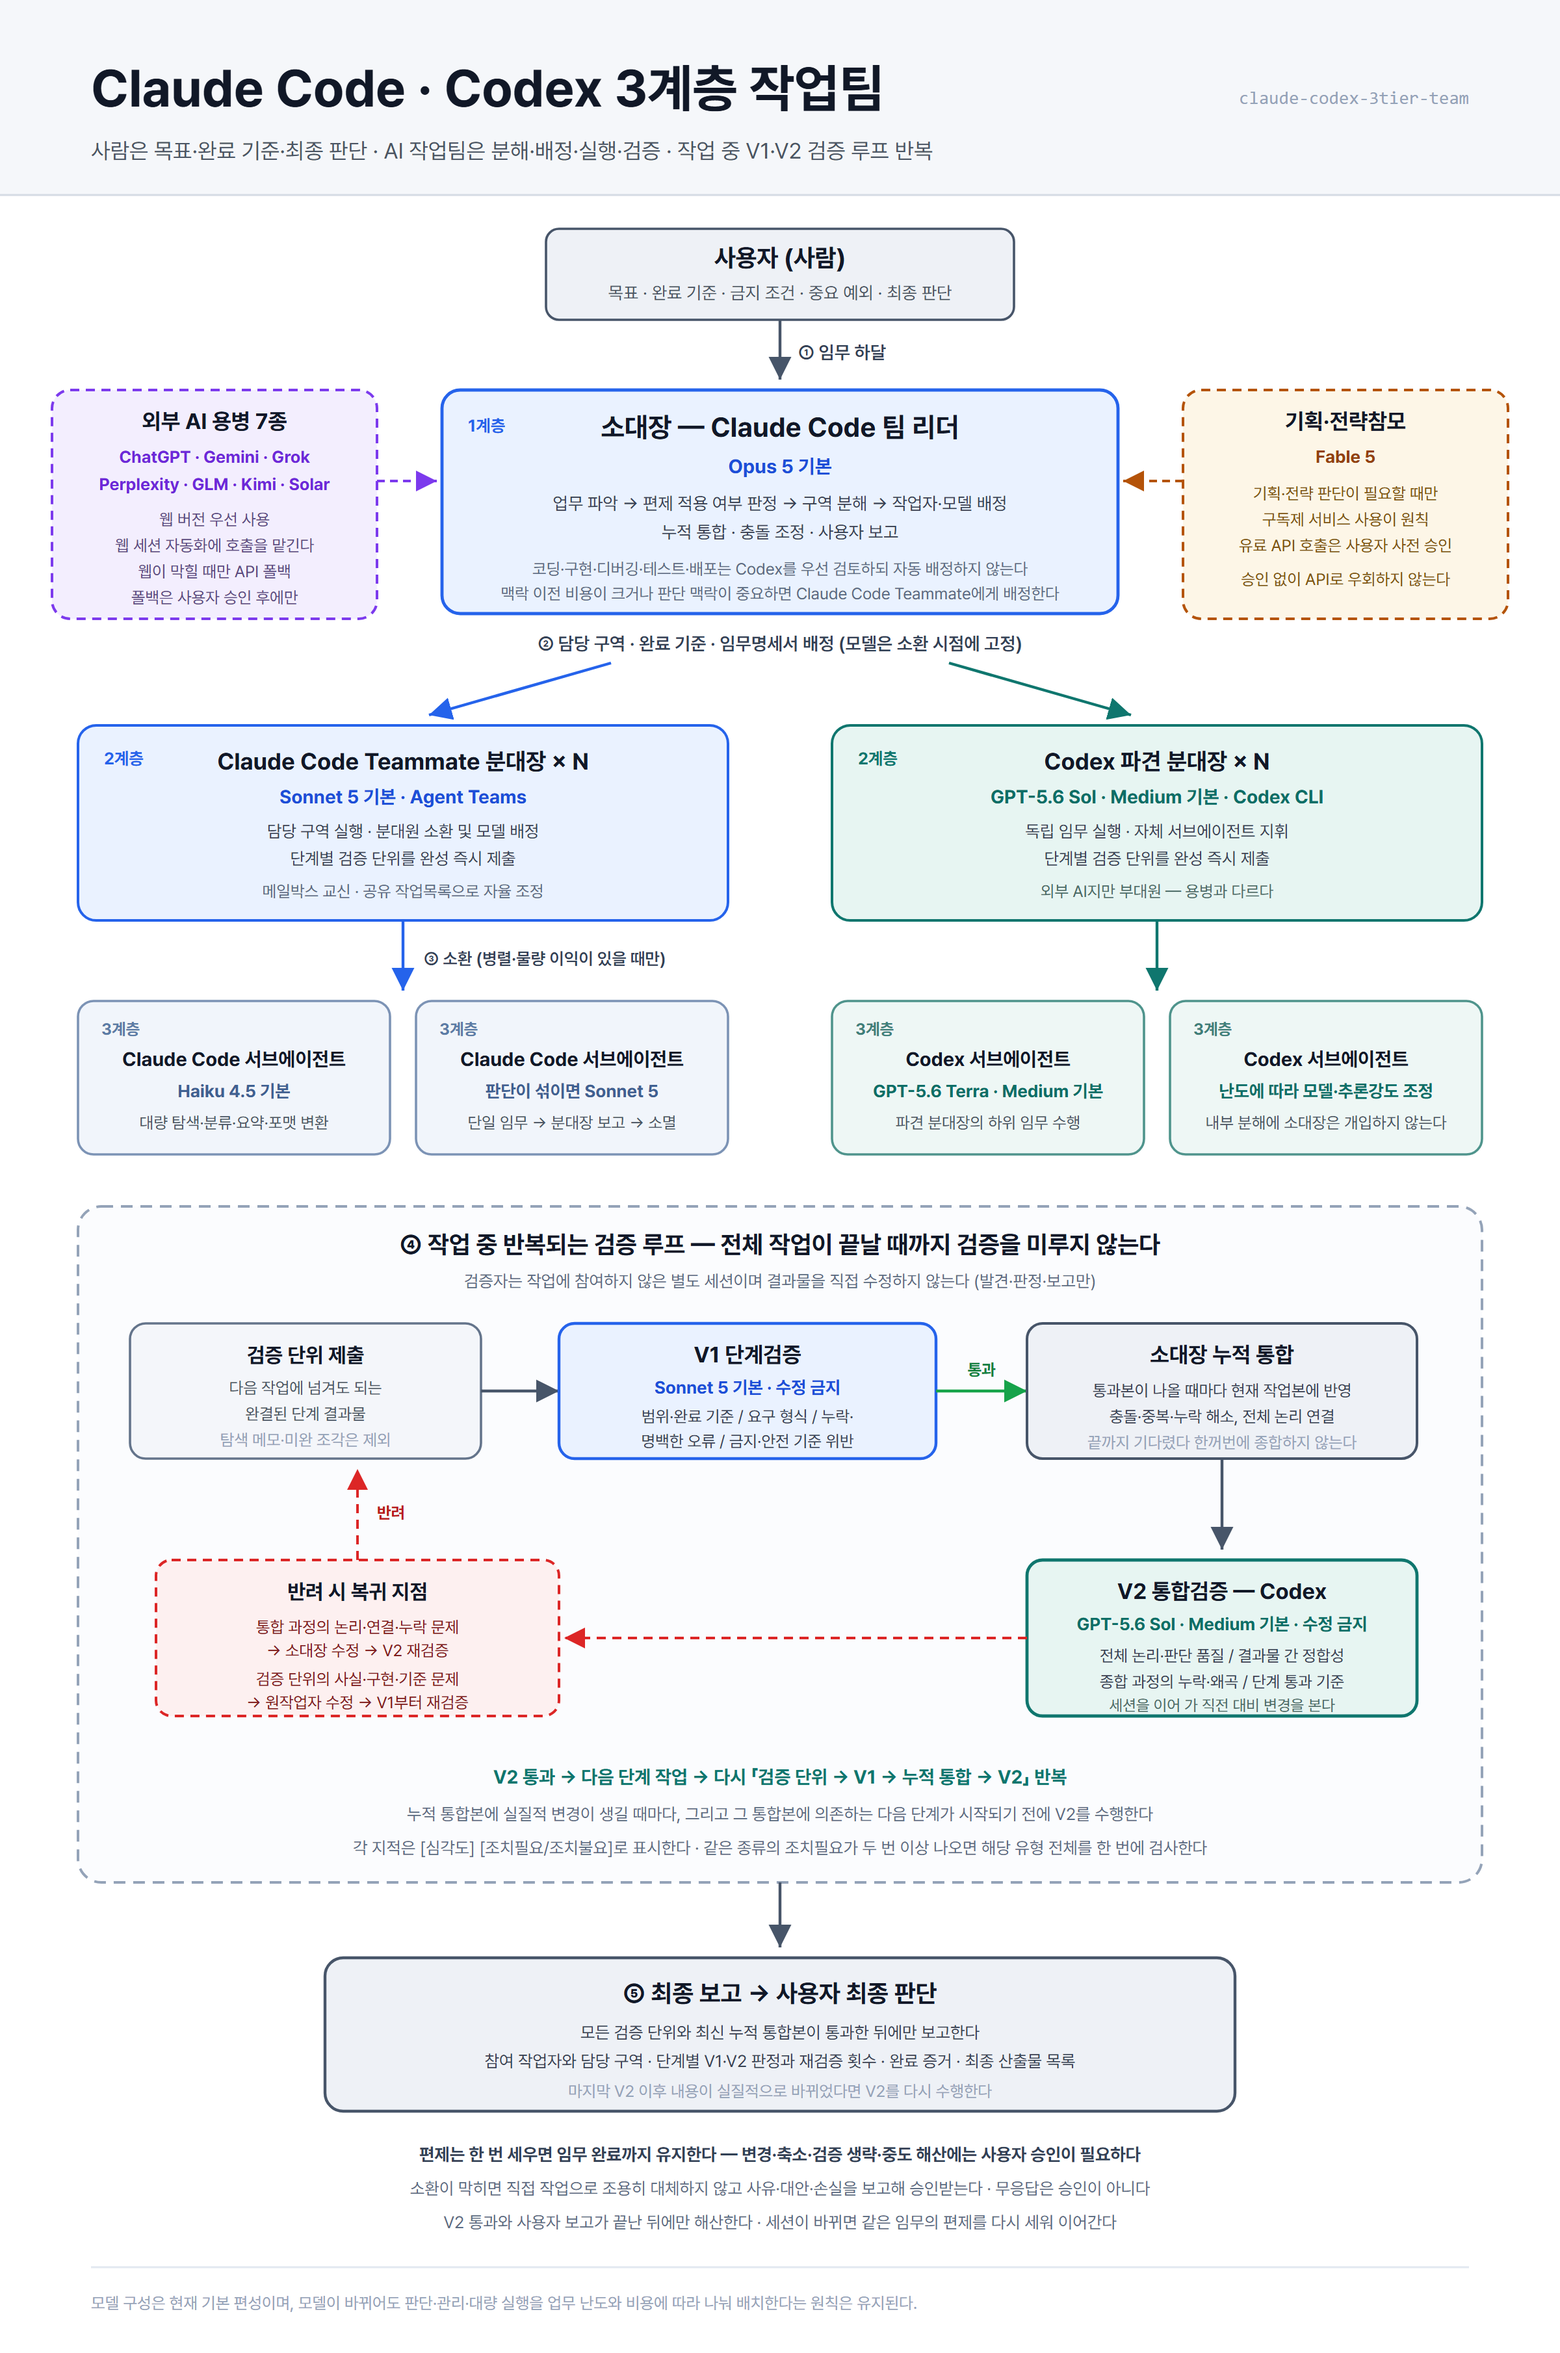
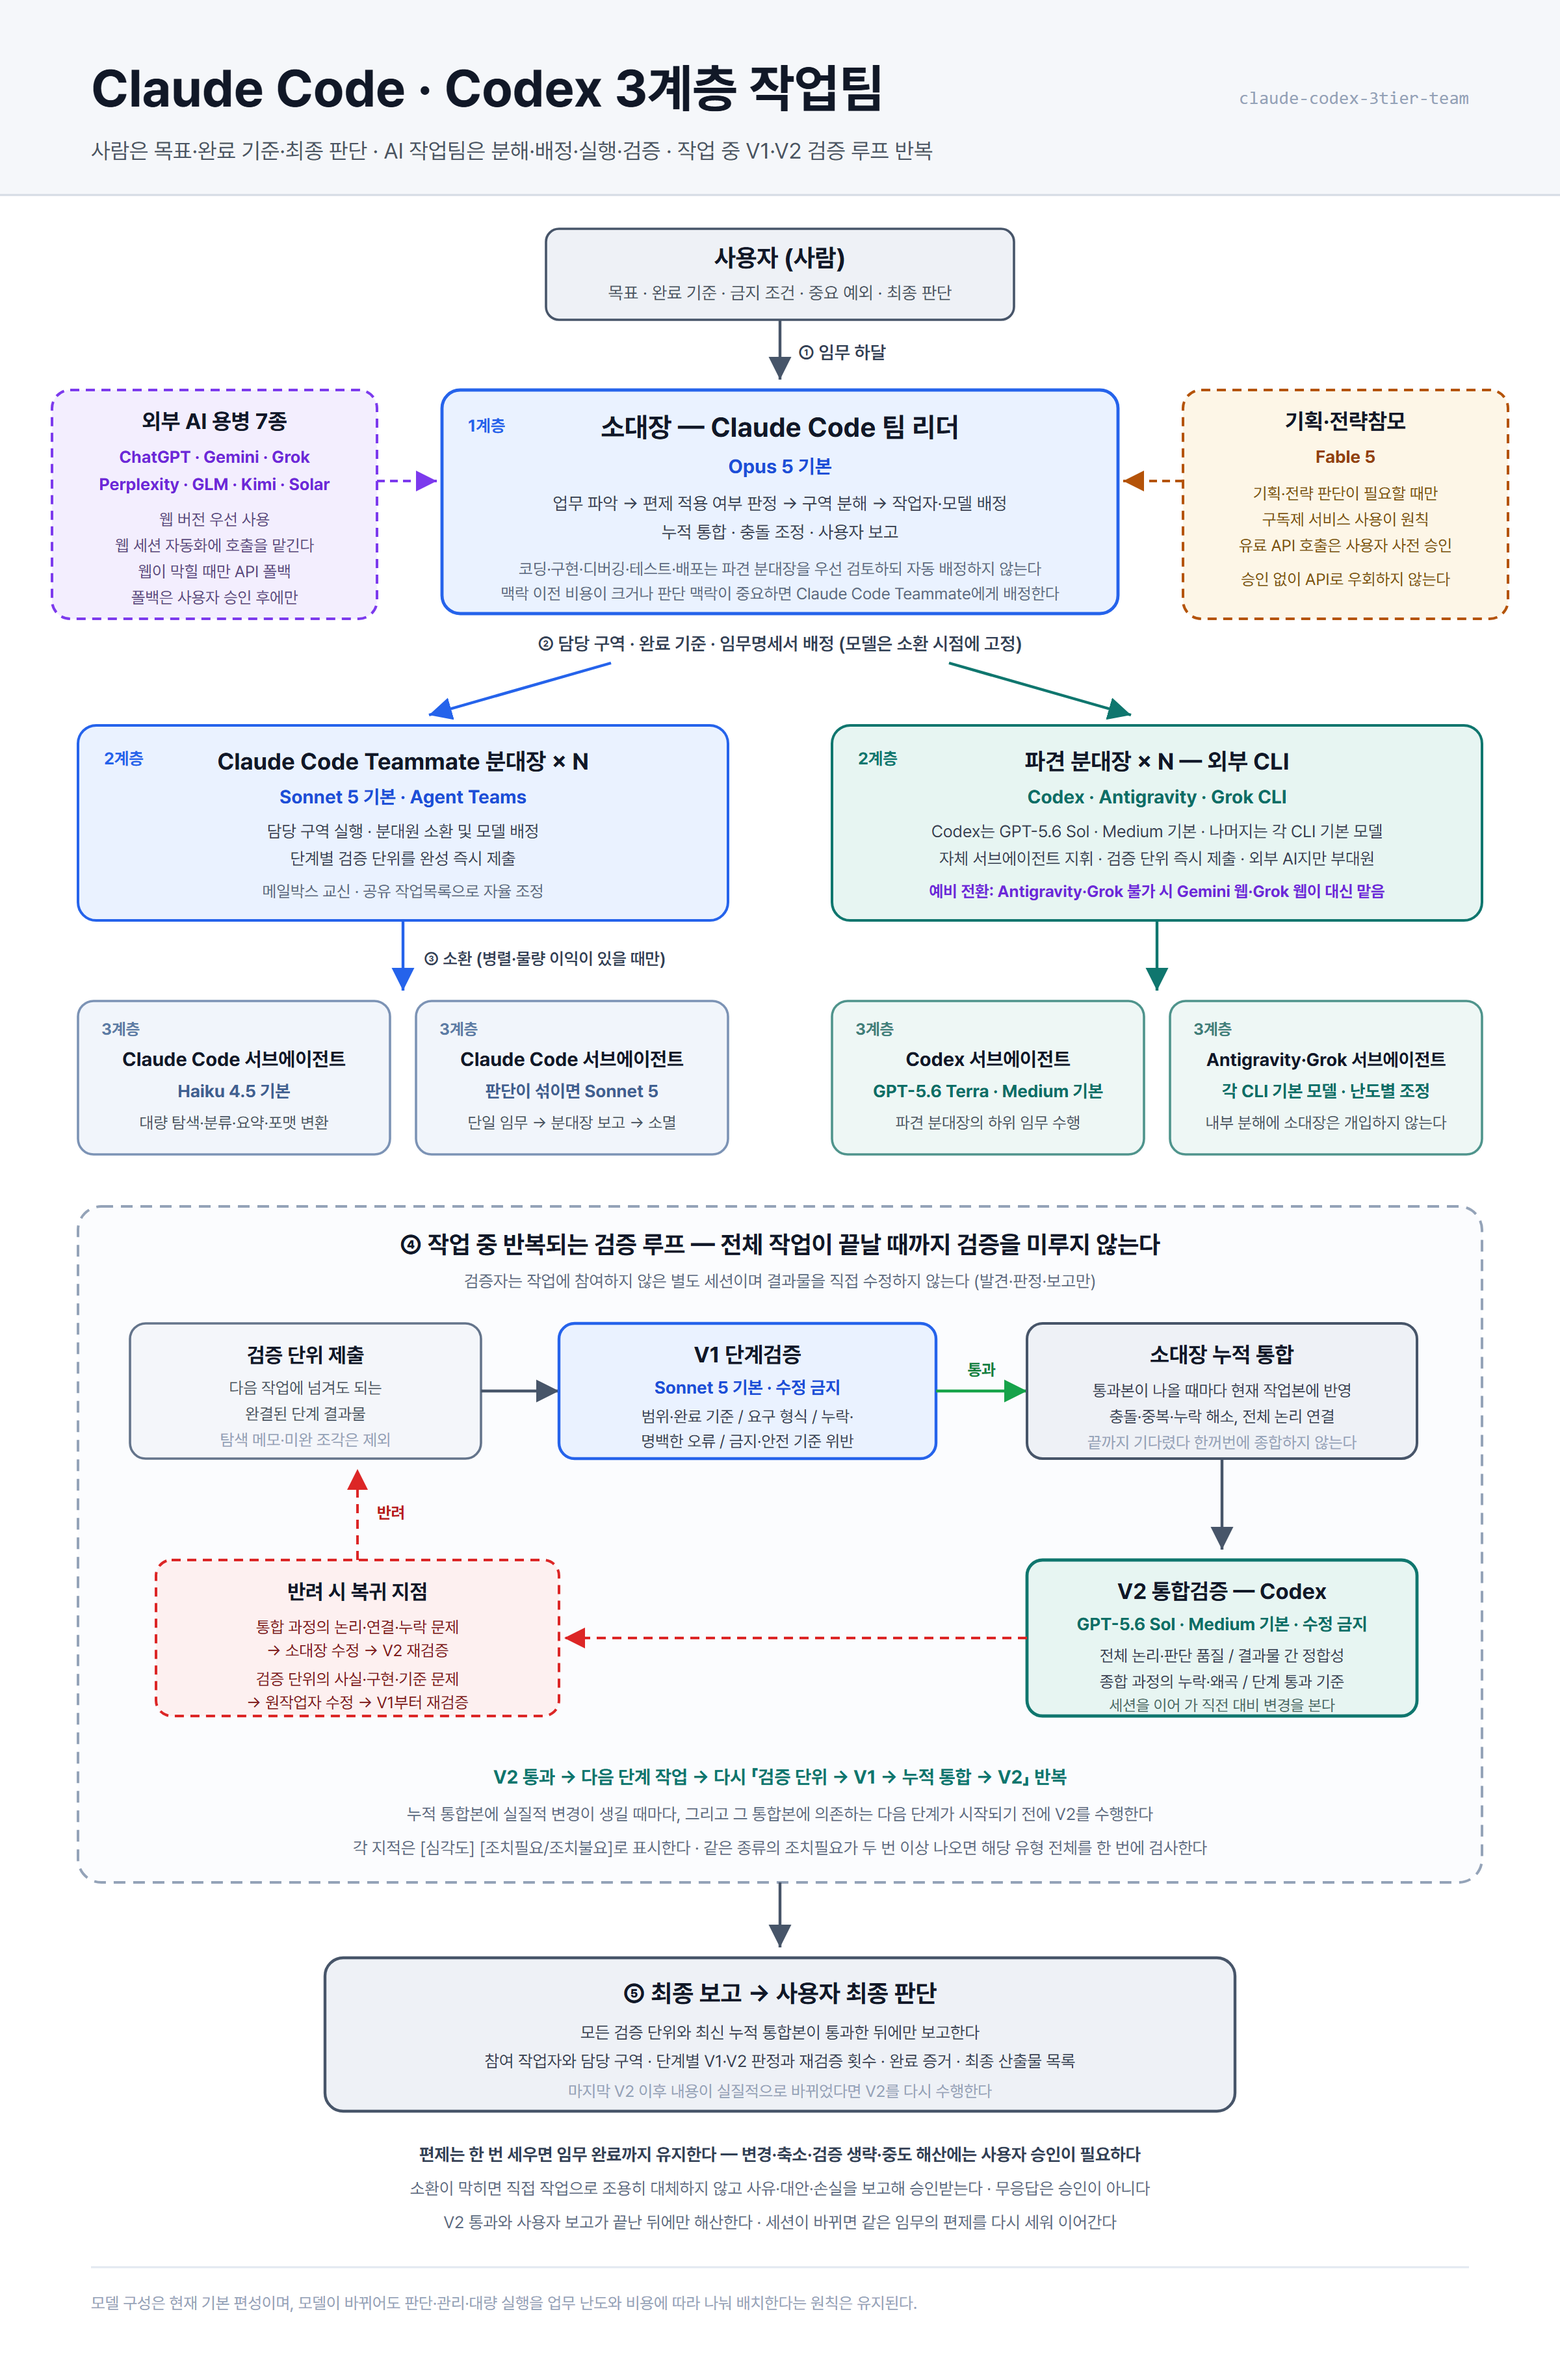
feat: Antigravity·Grok CLI를 파견 분대장으로 편입하고 예비 전환 규칙 신설
- 편제: Antigravity CLI(agy)·Grok CLI(grok)를 Codex와 같은 파견 분대장(2계층)으로 편입, 각자 자기 서브에이전트(3계층) 지휘
- SKILL.md: 편제표·모델 배정·장점·운용 절차·용병 절을 세 CLI 포괄로 수정
- 예비 전환 규칙: Antigravity·Grok CLI를 못 쓰면(미설치·오류·한도초과) 자리를 비우지 않고 Gemini 웹·Grok 웹을 예비로 불러 대신 맡기고 사용자에게 보고
- README.md·분대장·V1 역할 파일 동반 갱신
- 구조도: 2계층 파견 분대장·3계층 서브에이전트 칸을 세 CLI로 고치고 예비 전환 표기, PNG 재렌더링(글자 상자 이탈 측정 0건)

Claude-Session: https://claude.ai/code/session_01MDD7gAEBx3qyHZ9xsU2RQp

diff --git a/README.md b/README.md
@@ -2,7 +2,7 @@
 
 사람이 사용자(지휘)를 맡고 **Claude Code가 3계층 작업팀을 운영**하는 스킬입니다. 임무를 내리면 소대장이 작업을 분해하고, 계층별로 적합한 모델을 배정해 병렬 수행하며, **작업 중 반복되는 V1·V2 이중 검증 루프**를 통과한 산출물만 보고합니다.
 
-**Codex는 2계층 파견 분대장과 작업 미참여 V2 통합검증자로 참여합니다.** 외부 AI를 "부르면 답만 주고 빠지는 용병"이 아니라 **담당 구역을 지고 검증을 받는 부대원**으로 편성합니다.
+**Codex CLI·Antigravity CLI·Grok CLI는 2계층 파견 분대장으로, Codex는 작업 미참여 V2 통합검증자로도 참여합니다.** 외부 AI를 "부르면 답만 주고 빠지는 용병"이 아니라 **담당 구역을 지고 검증을 받는 부대원**으로 편성합니다.
 
 이것은 Claude Code와 Codex의 공식 통합 기능이 아니라, **스킬과 작업 규칙으로 두 환경을 연결한 운용 체계**입니다. 아래 모델 구성은 현재 기본 편성이며, 모델이 바뀌어도 판단·관리·대량 실행을 업무 난도와 비용에 따라 나눠 배치한다는 원칙은 유지됩니다.
 
@@ -20,14 +20,19 @@ AI가 늘어날수록 **사람의 작업자 선택·개별 지시·결과 통합
 | 소대장(1계층) | Claude Code 팀 리더 | Opus 5 기본 | 업무 파악, 분해, 배정, 종합, 보고 |
 | Claude Code Teammate 분대장(2계층) | Agent Teams Teammate | Sonnet 5 기본 | 담당 구역 실행, 분대원 지휘, 단계별 검증 단위 제출 |
 | Codex 파견 분대장(2계층) | Codex CLI | GPT-5.6 Sol·Medium 기본 | 독립 임무 실행, 자체 서브에이전트 지휘, 단계별 검증 단위 제출 |
+| Antigravity 파견 분대장(2계층) | Antigravity CLI(`agy`) | CLI 기본 모델 | 독립 임무 실행, 자체 서브에이전트 지휘, 단계별 검증 단위 제출 |
+| Grok 파견 분대장(2계층) | Grok CLI(`grok`) | CLI 기본 모델 | 독립 임무 실행, 자체 서브에이전트 지휘, 단계별 검증 단위 제출 |
 | Claude Code 서브에이전트(3계층) | Subagent | Haiku 4.5 기본 | 범위가 분명한 단일 임무 수행 후 분대장에게 보고 |
 | Codex 서브에이전트(3계층) | Codex 서브에이전트 | GPT-5.6 Terra·Medium 기본 | 파견 분대장의 하위 임무 수행 후 보고 |
+| Antigravity·Grok 서브에이전트(3계층) | 각 CLI의 서브에이전트 | 각 CLI 기본 모델 | 파견 분대장의 하위 임무 수행 후 보고 |
 | V1 단계검증자 | 작업 미참여 Teammate 별도 세션 | Sonnet 5 기본, 수정 금지 | 단계별 검증 단위 즉시 검증 |
 | V2 통합검증자 | 작업 미참여 Codex 별도 세션 | GPT-5.6 Sol·Medium 기본, 수정 금지 | 누적 통합본 독립 검증 |
 | 기획·전략참모 | Fable 5 | 구독제 원칙, 유료 API는 사전 승인 | 기획·전략 자문 |
 | 외부 AI 용병 | 7종 웹 버전 | 웹 세션 자동화만 사용 | 외부 관점·전문 작업 |
 
-분대장은 한 명으로 고정하지 않습니다. 독립 작업 구역과 작업량에 따라 **두 종류의 분대장을 각각 복수로** 편성합니다.
+분대장은 한 명으로 고정하지 않습니다. 독립 작업 구역과 작업량에 따라 **Claude Code Teammate 분대장과 파견 분대장(Codex·Antigravity·Grok)을 각각 복수로** 편성합니다.
+
+**예비 전환** — Antigravity·Grok CLI 파견 분대장을 쓸 수 없으면(미설치·오류·한도초과) 자리를 비우지 않고, 같은 계열의 웹 용병(Grok CLI → Grok 웹, Antigravity CLI → Gemini 웹)을 예비로 불러 그 구역을 대신 맡기고 사용자에게 보고합니다.
 
 ## 핵심 원칙
 
@@ -68,6 +73,7 @@ V2의 임무는 **"V1이 못 본 사각을 다른 눈으로 보는 것"** 입니
 - Claude Code v2.1.178+ (권장 v2.1.201+)
 - Agent Teams 활성화: `settings.json` 에 `{ "env": { "CLAUDE_CODE_EXPERIMENTAL_AGENT_TEAMS": "1" } }`
 - **Codex CLI** (파견 분대장·V2용): `npm i -g @openai/codex` + `codex login` (ChatGPT 구독 경로). 없으면 편제에서 빼고 Claude Code Teammate 분대장으로 대체한 뒤 사용자에게 보고합니다
+- **Antigravity CLI**(`agy`)·**Grok CLI**(`grok`) (파견 분대장용, 선택): 설치·로그인해 두면 편제에 들어갑니다. 쓸 수 없으면 예비 전환으로 Gemini 웹·Grok 웹이 대신 맡습니다(웹 세션 자동화 필요)
 - 전략참모(선택): Fable 5는 구독제 사용이 원칙이며, API 사용료가 발생하는 호출(`scripts/call-fable5.py`, 환경변수 `ANTHROPIC_API_KEY`)은 **사용자의 사전 승인**을 받은 경우에만 씁니다
 
 ## 사용
@@ -82,7 +88,7 @@ V2의 임무는 **"V1이 못 본 사각을 다른 눈으로 보는 것"** 입니
 
 ## 외부 AI 용병 7종
 
-ChatGPT, Gemini, Grok, Perplexity, GLM, Kimi, Solar.
+ChatGPT, Gemini, Grok, Perplexity, GLM, Kimi, Solar. (Gemini 웹·Grok 웹은 Antigravity·Grok CLI 파견 분대장의 예비로도 불립니다.)
 
 - **각 서비스의 웹 버전만** 사용하고, 호출은 웹 세션 자동화에 맡깁니다
 - CLI·API·MCP·SDK·직접 HTTP 요청으로 호출하지 않습니다

diff --git a/agents/claude-codex-3tier-verifier-v1.md b/agents/claude-codex-3tier-verifier-v1.md
@@ -21,7 +21,7 @@ tools:
   4. 금지 조건과 안전 기준 위반
 - 항목별로 **통과 / 반려** 판정과 근거를 보고한다. 통과분만 후속 작업과 소대장의 누적 통합에 쓰인다.
 - **각 지적의 첫 줄에 `[심각도] [조치필요/조치불요]`를 적는다.** 심각도와 "고쳐야 하는가"는 **다른 축**이다 — 사소해 보여도 고쳐야 하면 조치필요, 심각해 보여도 이번 건에서 고칠 게 없으면 조치불요다. 완료 기준·금지 조건·안전 기준에 해당하면 조치필요로 판정한다. 기존 목록에 없는 새로운 중대한 결함을 자동으로 조치불요 처리하지 않는다 — 해당 여부가 불명확하면 소대장에게 판정을 요청한다.
-- **Codex 파견 분대장 산출물도 같은 기준으로 검증한다.** 외부 AI라고 봐주지 않고, 더 얹지도 않는다.
+- **파견 분대장(Codex·Antigravity·Grok) 산출물과 예비 용병(Gemini 웹·Grok 웹) 산출물도 같은 기준으로 검증한다.** 외부 AI라고 봐주지 않고, 더 얹지도 않는다.
 
 ## 행동 원칙 (절대 규칙)
 
@@ -29,6 +29,6 @@ tools:
 2. 반려 시 반드시 구체적으로: 파일·위치·무엇이 왜 기준 미달인지·재검증 시 확인할 지점.
 3. UI 산출물은 "파일 존재·코드 있음"으로 통과시키지 않는다 — 실제 동작 확인 근거(클릭 테스트 결과 등)가 없으면 반려한다. HTTP 200은 동작 증거가 아니다.
 4. 애매하면 통과가 아니라 반려다. 관대한 1차 검증은 V2 통합검증의 부담이 된다.
-5. **Codex 파견 분대장 산출물은 "임무명세서 밖 가정"을 특히 본다.** Codex는 세션 맥락을 공유하지 않으므로 명세서에 없는 것을 스스로 지어내 채웠을 수 있다. 명세서에 근거가 없는 결정이 섞여 있으면 반려한다.
-6. Codex 파견 분대장 반려분은 **소대장이 재호출**한다(Codex는 상주하지 않아 스스로 고칠 수 없다). 반려 사유가 그대로 재호출 임무명세서가 되므로, 재호출만으로 고쳐질 만큼 구체적으로 쓴다.
+5. **파견 분대장 산출물은 "임무명세서 밖 가정"을 특히 본다.** 파견 분대장은 세션 맥락을 공유하지 않으므로 명세서에 없는 것을 스스로 지어내 채웠을 수 있다. 명세서에 근거가 없는 결정이 섞여 있으면 반려한다.
+6. 파견 분대장 반려분은 **소대장이 재호출**한다(파견 분대장은 상주하지 않아 스스로 고칠 수 없다). 반려 사유가 그대로 재호출 임무명세서가 되므로, 재호출만으로 고쳐질 만큼 구체적으로 쓴다.
 7. 같은 종류의 조치필요가 두 번 이상 나오면 개별 지적을 반복하지 말고 **해당 유형 전체를 한 번에 검사해 전수 판정표로 제출**한다.

diff --git a/agents/claude-codex-3tier-squad-leader.md b/agents/claude-codex-3tier-squad-leader.md
@@ -34,3 +34,9 @@ tools:
 3. V1·V2 검증에서 반려되면 네가 직접 수정하고 재검증을 요청한다. 검증자에게 수정을 떠넘기지 않는다.
 4. 완료 보고에는 다음을 포함한다: 산출물 목록, 소환한 분대원과 배정 모델, 검증 가능한 확인 방법.
 5. 테스트 없이 "통과"라고 보고하지 않는다. 90%면 90%라고 보고한다.
+
+## 같은 2계층의 파견 분대장
+
+- 2계층에는 너 외에 **파견 분대장 — Codex CLI·Antigravity CLI·Grok CLI** 가 선다. 소대장이 직접 CLI로 호출하며, 각자 자기 체계의 서브에이전트를 부린다. 너의 분대원이 아니다 — 네가 호출하거나 지휘하지 않는다.
+- 파견 분대장 구역과 네 구역이 겹치거나 산출물이 충돌하면 직접 조정하지 말고 소대장에게 보고한다.
+- Antigravity·Grok CLI를 쓸 수 없을 때 그 구역을 대신 맡는 예비 용병(Gemini 웹·Grok 웹)도 소대장이 부른다.
